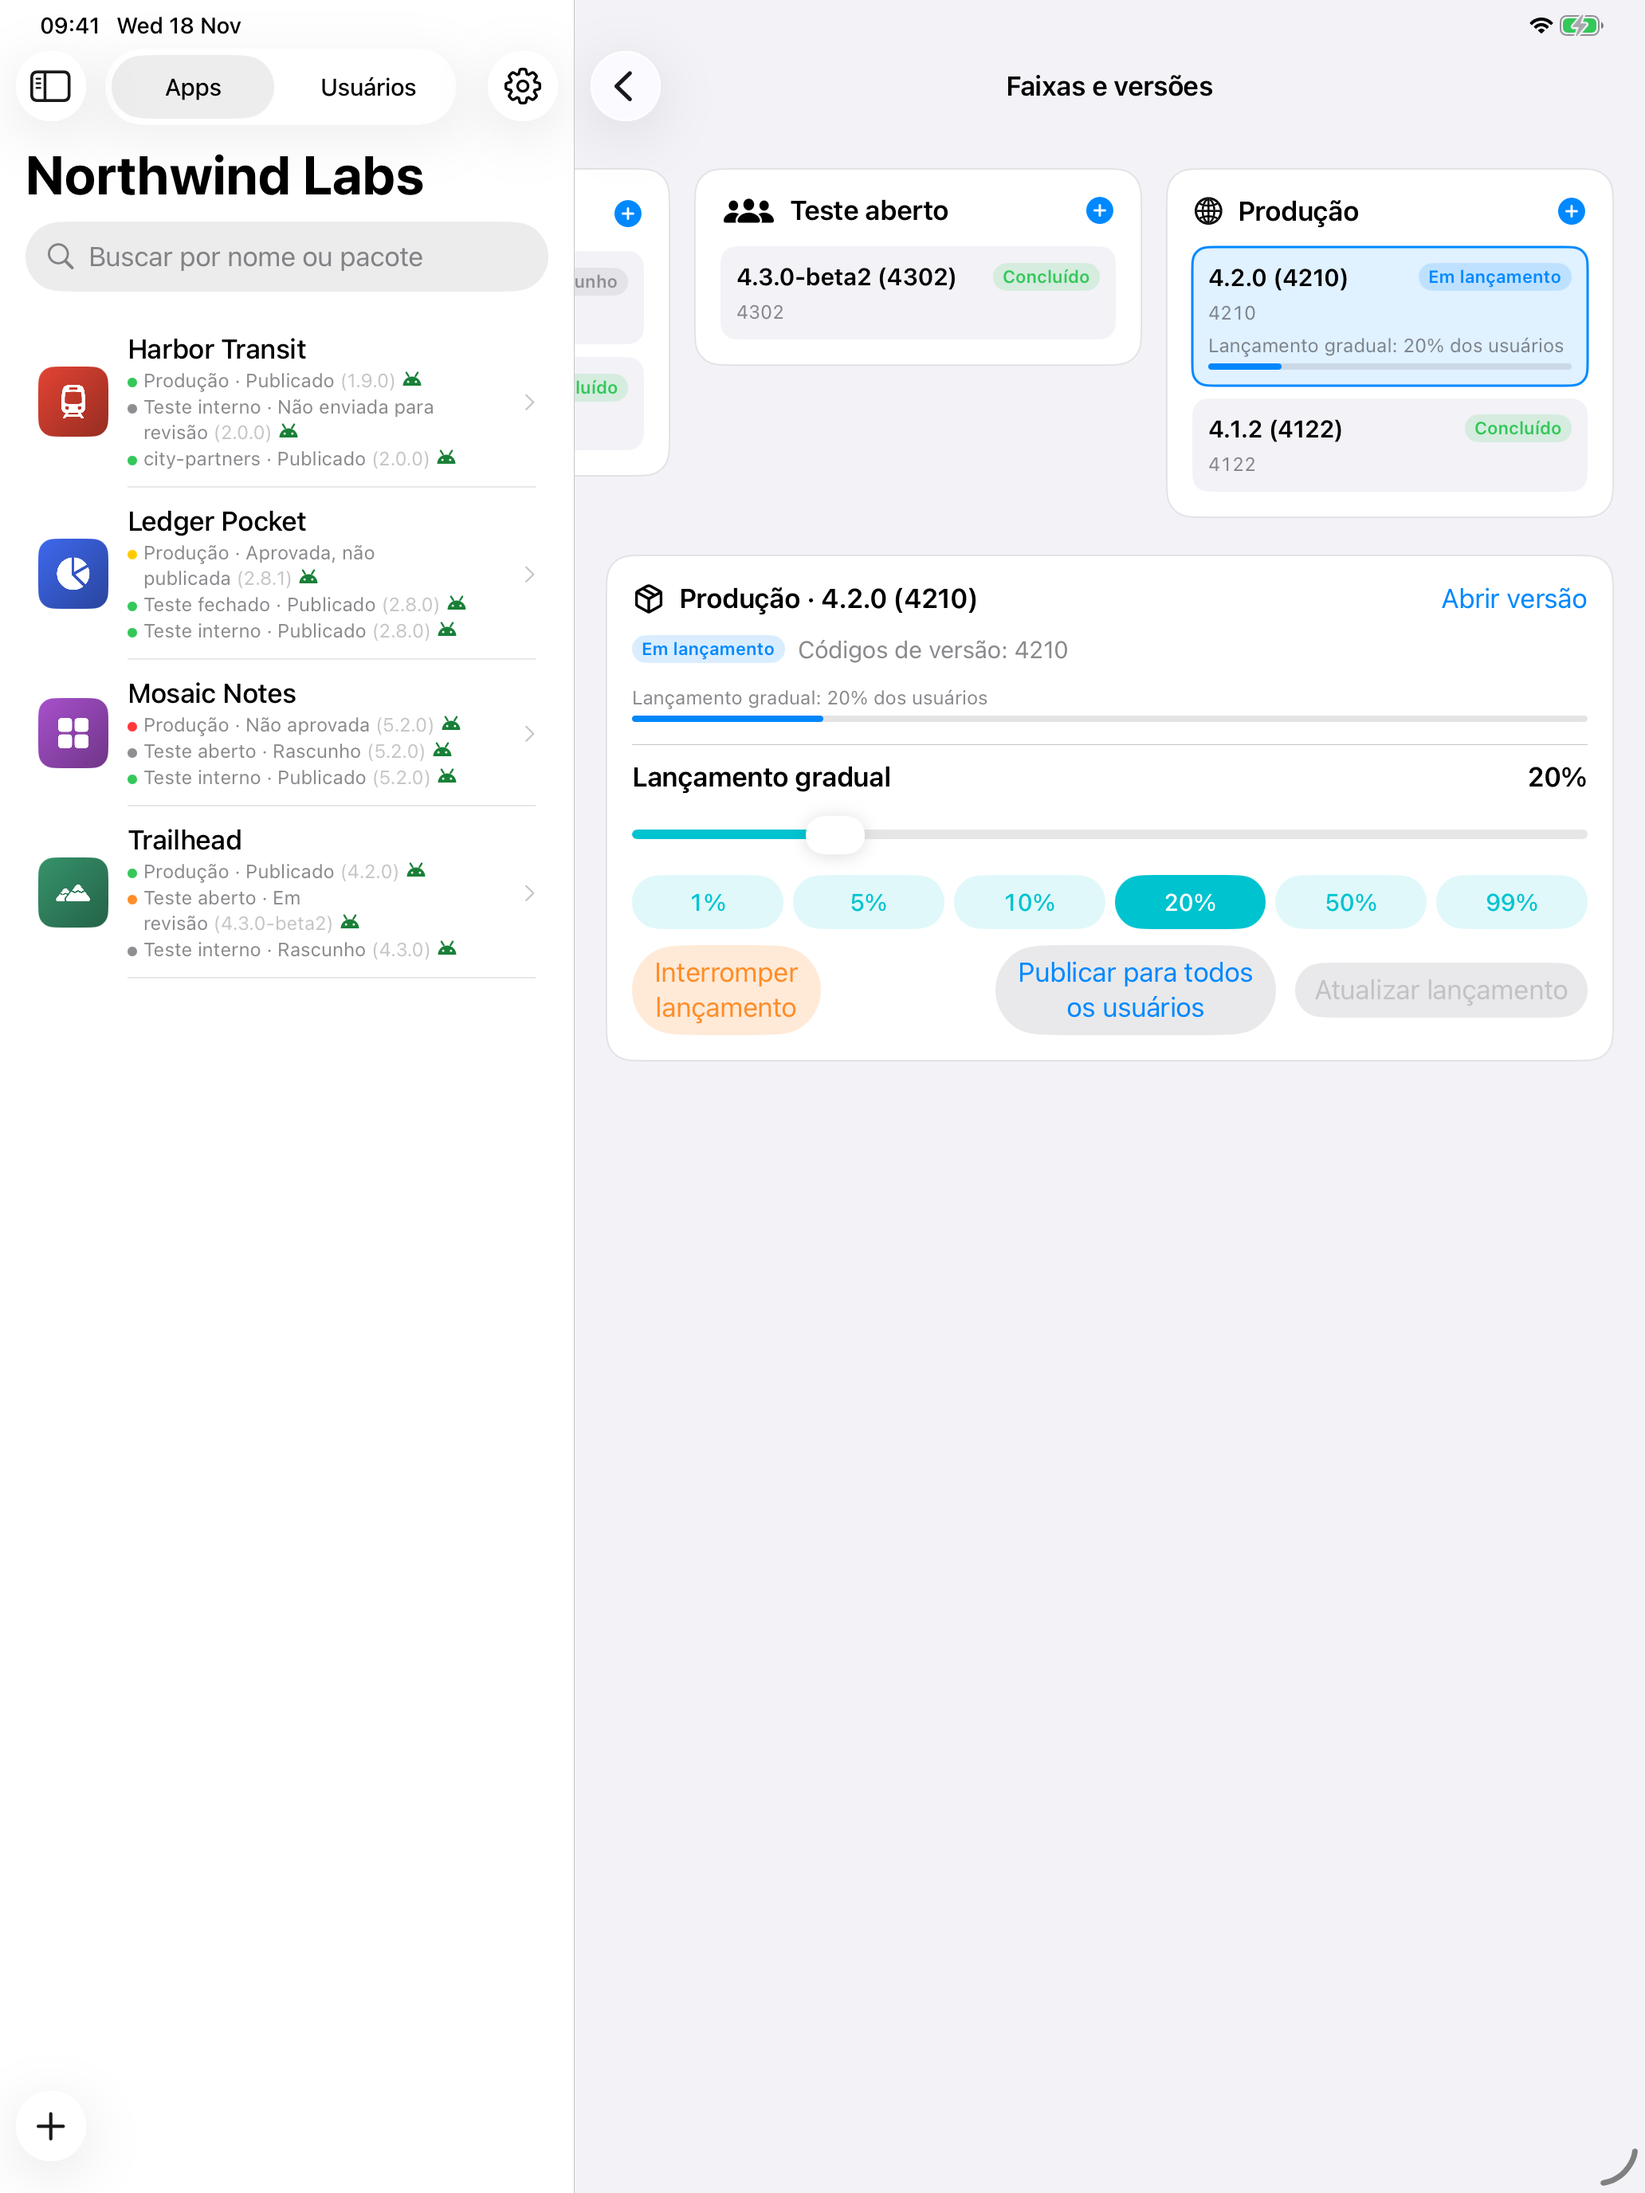
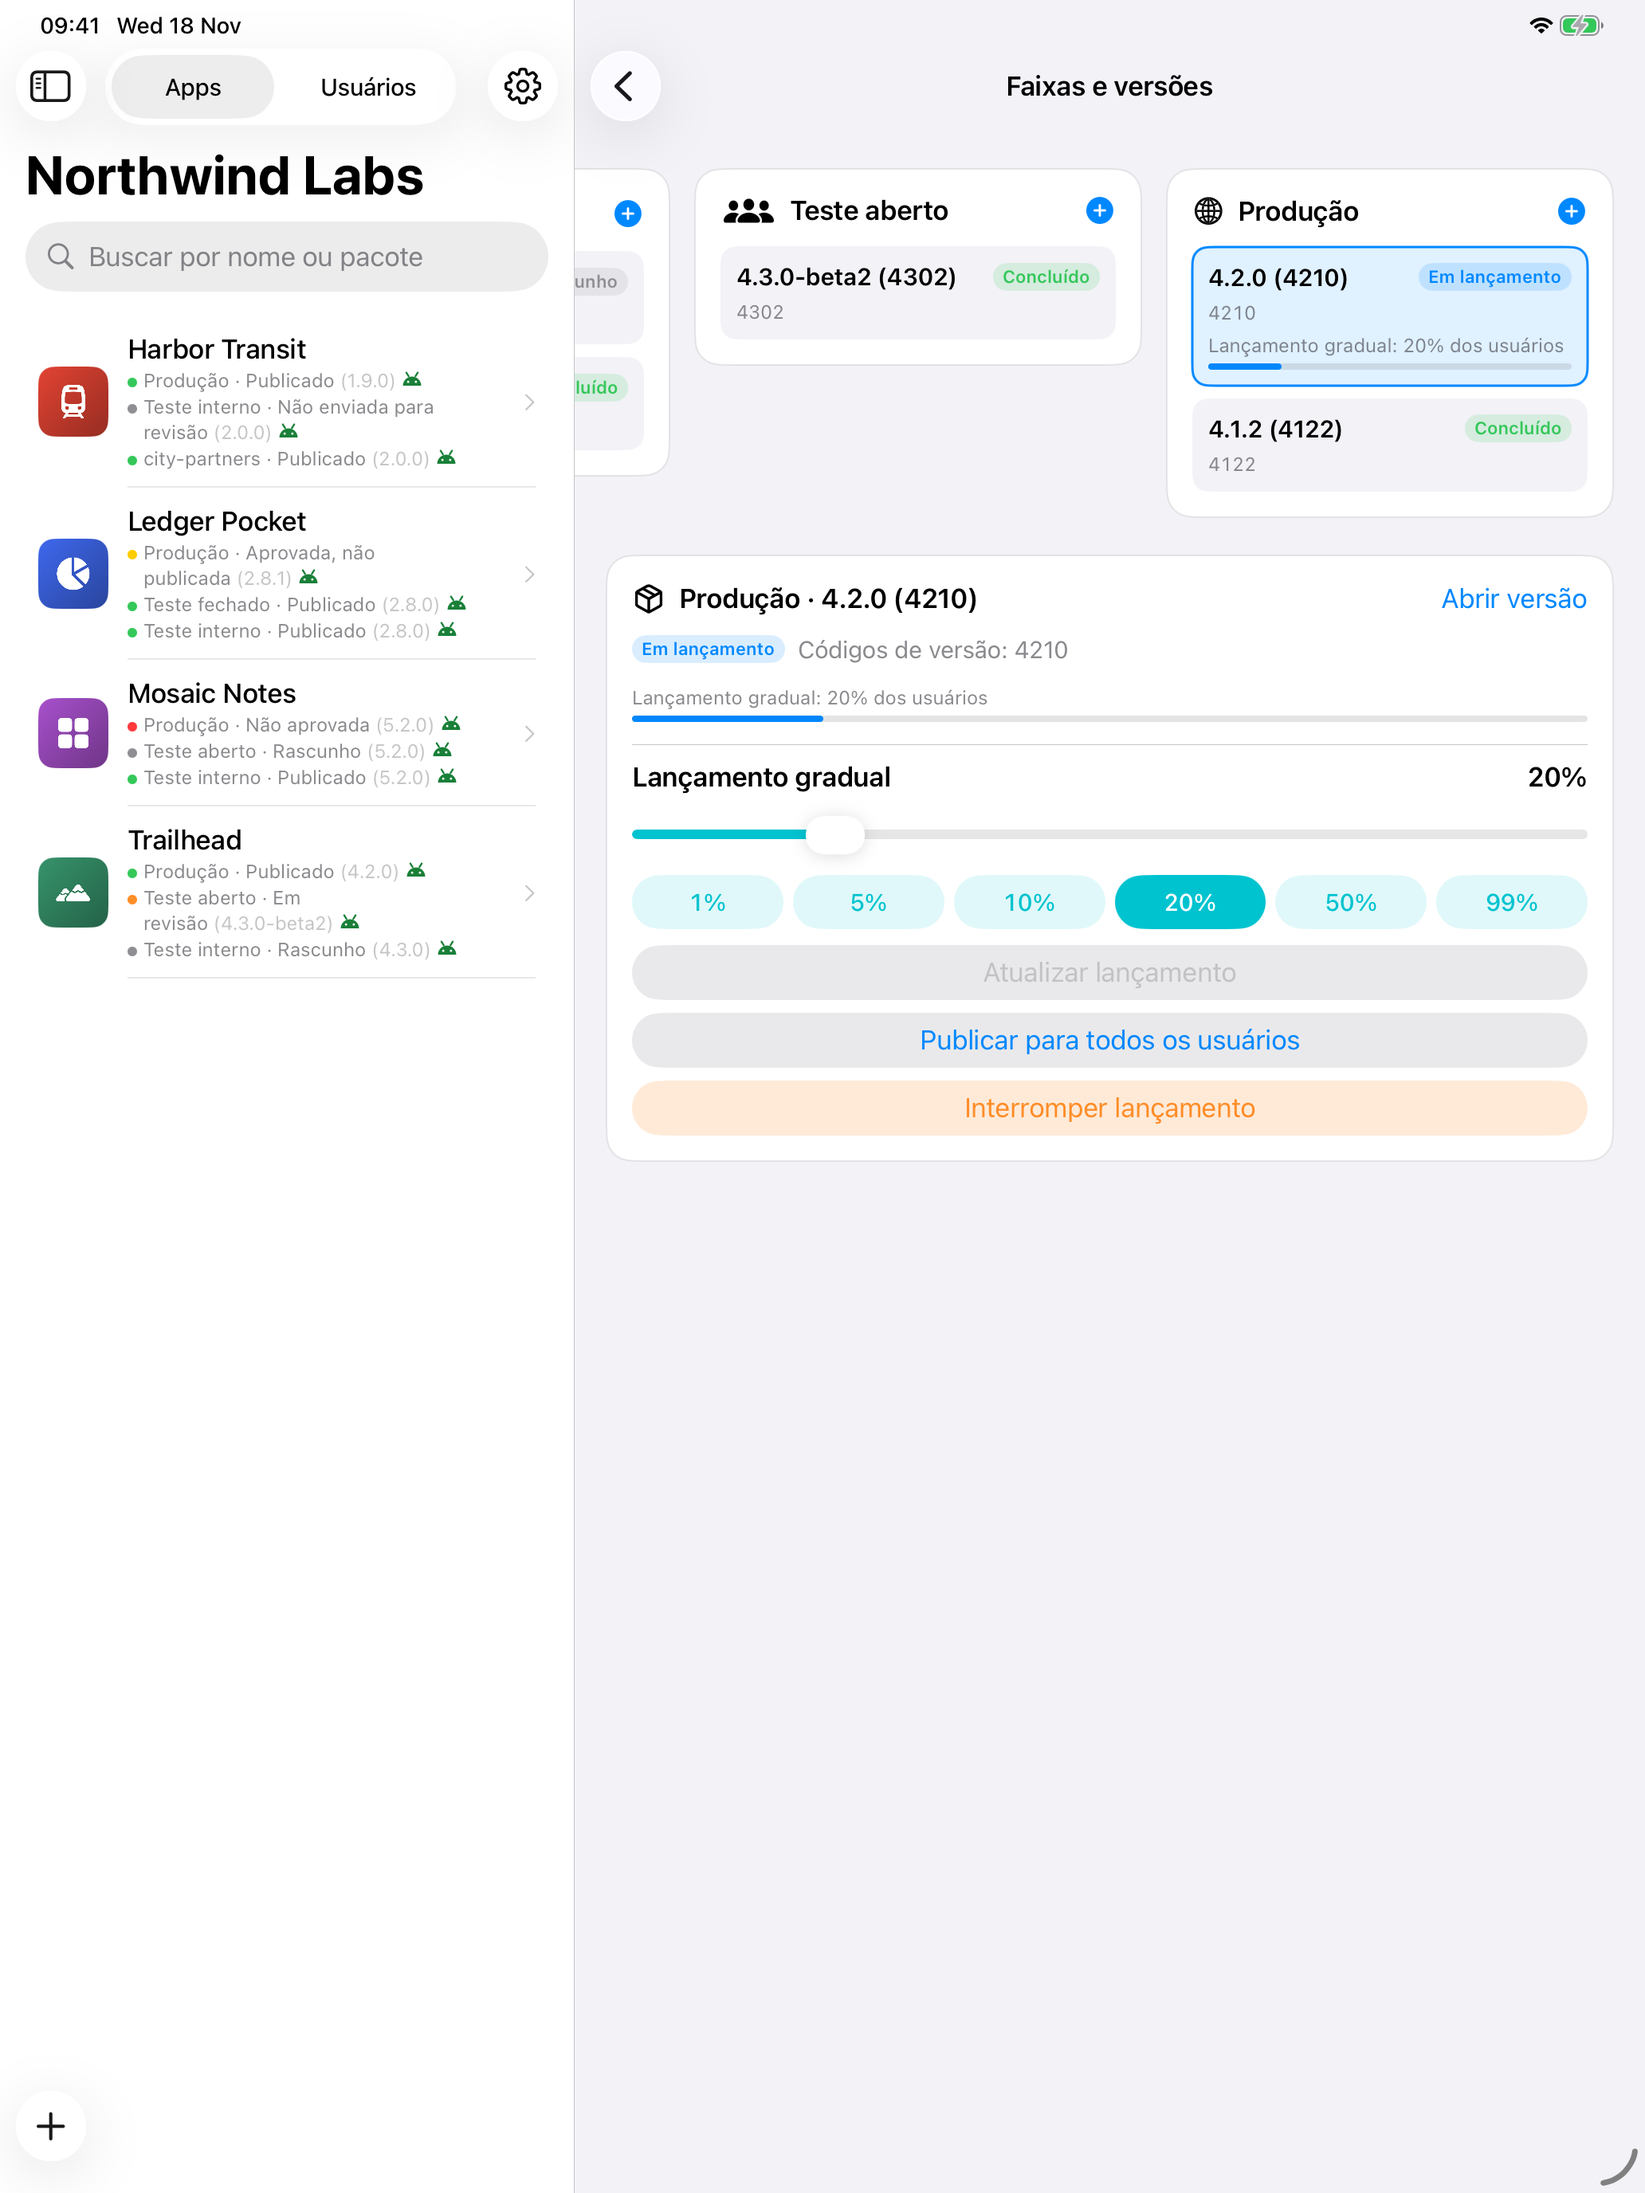
feat(store): pt-BR iPad rollout screenshot with stacked actions
Recaptures the pt-BR iPad 13-inch rollout shot after the staged rollout buttons started stacking in narrow widths, and grows its zoom crop to fit them.

Changed region(s): [[0.3721, 0.4375, 0.9612, 0.5312]]

diff --git a/fastlane/screenshots_src/index.html b/fastlane/screenshots_src/index.html
@@ -149,7 +149,7 @@ const FRAMES = [
     en: { eyebrow: 'Google Play', h: 'Every Google Play track in one view', s: 'Production, testing and custom tracks with each release state.' },
     pt: { eyebrow: 'Google Play', h: 'Todas as tracks do Google Play numa tela', s: 'Produção, testes e tracks personalizadas com o estado de cada release.' } },
   { img: '06-play-rollout', store: 'google', stage: '6', stageLabel: { en: 'Rollout', pt: 'Rollout' },
-    crop: null, cropIpad: { x: 762, y: 695, w: 1262, h: 600 }, cropIpadPt: { x: 762, y: 695, w: 1262, h: 645 }, ring: null,
+    crop: null, cropIpad: { x: 762, y: 695, w: 1262, h: 600 }, cropIpadPt: { x: 762, y: 695, w: 1262, h: 780 }, ring: null,
     en: { eyebrow: 'Google Play', h: 'Grow your rollout with confidence', s: 'Raise, halt or complete a staged rollout from your iPhone.' },
     pt: { eyebrow: 'Google Play', h: 'Aumente o rollout com segurança', s: 'Aumente, interrompa ou conclua o rollout gradual pelo iPhone.' } },
   { img: '07-asc-pending-release', store: 'apple', stage: '7', stageLabel: { en: 'Release', pt: 'Publicar' },
